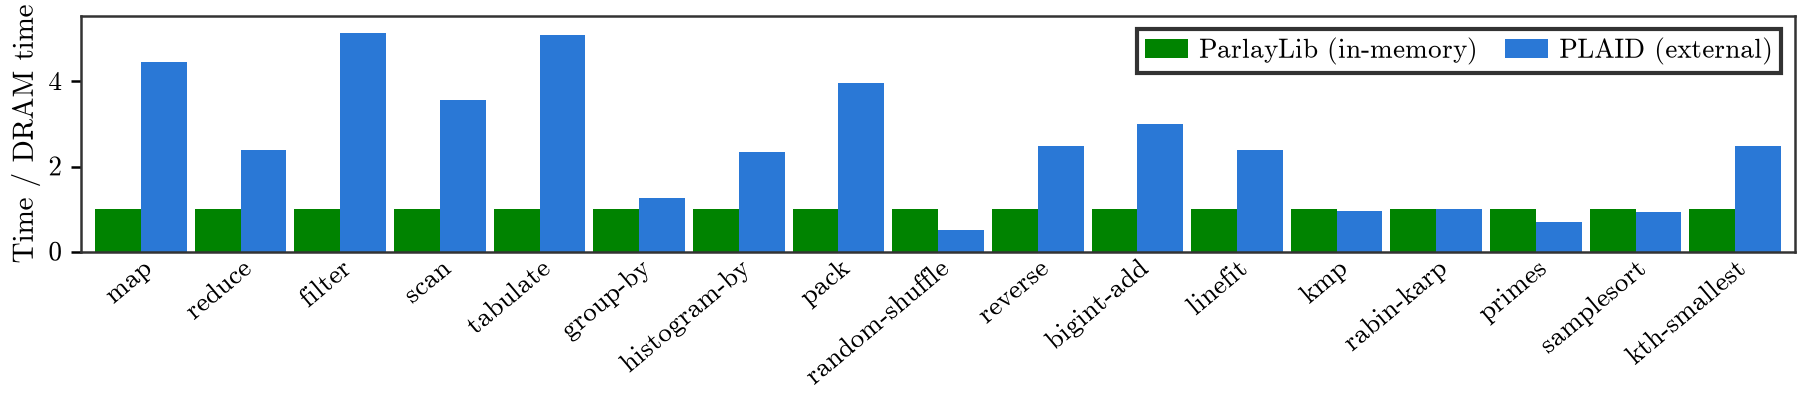
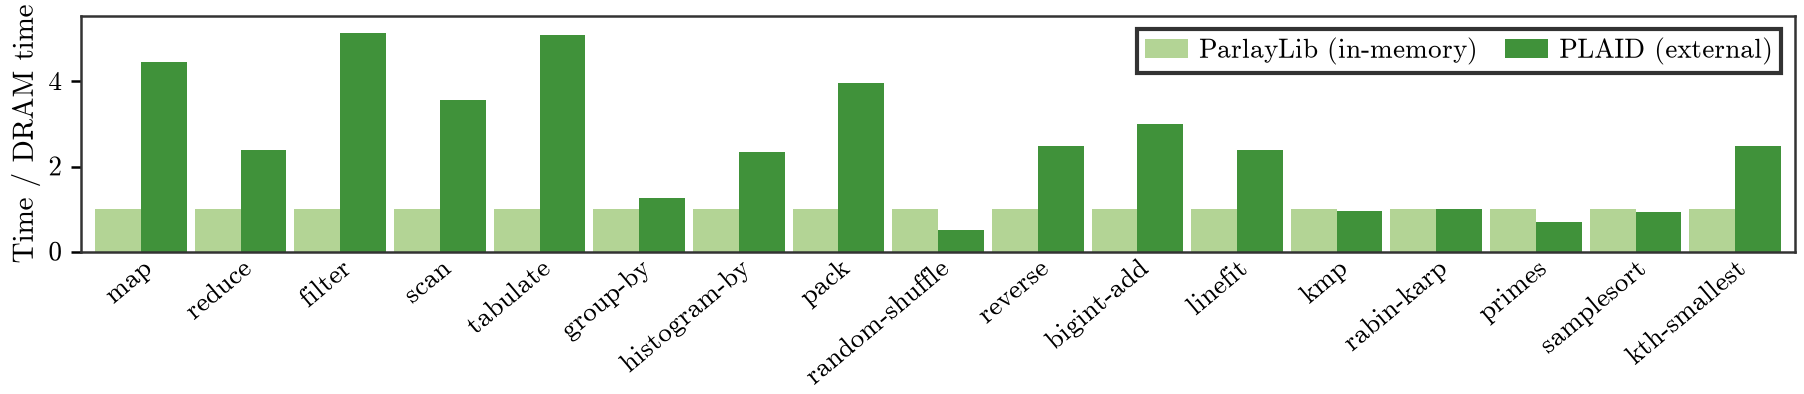
big fig

Changed region(s): [[0.031, 0.0609, 0.9933, 0.6396], [0.6208, 0.0914, 0.6829, 0.1523], [0.8071, 0.0914, 0.8692, 0.1523]]

diff --git a/benchresults/Sep24-FinalFigures/aggregate_summary_runs.py b/benchresults/Sep24-FinalFigures/aggregate_summary_runs.py
@@ -1,0 +1,144 @@
+#!/usr/bin/env python3
+"""Mean / median of several summary_figure.csv runs, per entry.
+
+Each input is a summary_figure.csv as benchmarks/summary_figure.py writes it
+(label,name,n,input_bytes,time_s,inmem_time_s,ratio).  Rows are keyed by
+`name`.  An entry measured at a different input_bytes in different runs is
+flagged (size_mismatch=1) and warned about -- its stats mix sizes.
+
+  usage:
+    python3 aggregate_summary_runs.py RUN1.csv RUN2.csv [...] [--out DIR]
+
+Writes to DIR (default: cwd):
+  summary_stats.csv            per-entry per-run ratios + mean/median/min/max/stdev
+  summary_figure_mean.csv      summary_figure.csv schema, mean times + mean ratio
+  summary_figure_median.csv    summary_figure.csv schema, median times + median ratio
+and prints a Markdown table to stdout.  The two summary_figure_*.csv files
+redraw with plot_paper_summary_bars.py by pointing ppf.SUMMARY_CSV at them.
+"""
+
+import argparse
+import csv
+import os
+import statistics
+import sys
+
+HERE = os.path.dirname(os.path.abspath(__file__))
+FIG_HEADER = ["label", "name", "n", "input_bytes", "time_s", "inmem_time_s",
+              "ratio"]
+
+
+def read_csv(path):
+    with open(path, newline="") as f:
+        return {r["name"]: r for r in csv.DictReader(f)}
+
+
+def entry_order(runs):
+    """plot_paper_figures' order if importable, else first-seen CSV order."""
+    try:
+        sys.path.insert(0, HERE)
+        import plot_paper_figures as ppf
+        order = list(ppf.SUMMARY_PRIMITIVES + ppf.SUMMARY_EXAMPLES)
+    except Exception:
+        order = []
+    for run in runs:
+        for name in run:
+            if name not in order:
+                order.append(name)
+    return order
+
+
+def stats(xs):
+    return {"mean": statistics.mean(xs), "median": statistics.median(xs),
+            "min": min(xs), "max": max(xs),
+            "stdev": statistics.stdev(xs) if len(xs) > 1 else 0.0}
+
+
+def main():
+    ap = argparse.ArgumentParser(description=__doc__,
+                                 formatter_class=argparse.RawDescriptionHelpFormatter)
+    ap.add_argument("csvs", nargs="+", help="summary_figure.csv files, one per run")
+    ap.add_argument("--out", default=".", help="output directory (default: cwd)")
+    args = ap.parse_args()
+
+    runs = [read_csv(p) for p in args.csvs]
+    k = len(runs)
+    warnings = []
+    stat_rows, mean_rows, median_rows = [], [], []
+
+    for name in entry_order(runs):
+        present = [(i, run[name]) for i, run in enumerate(runs) if name in run]
+        if not present:
+            continue
+        if len(present) < k:
+            missing = [args.csvs[i] for i in range(k) if name not in runs[i]]
+            warnings.append(f"{name}: missing from {', '.join(missing)}")
+        sizes = {r["input_bytes"] for _, r in present}
+        mismatch = len(sizes) > 1
+        if mismatch:
+            warnings.append(f"{name}: input_bytes differs across runs "
+                            f"({', '.join(sorted(sizes, key=int))}) -- stats mix sizes")
+
+        ratios = [float(r["ratio"]) for _, r in present]
+        times = [float(r["time_s"]) for _, r in present]
+        inmems = [float(r["inmem_time_s"]) for _, r in present]
+        rs, ts, ms = stats(ratios), stats(times), stats(inmems)
+        first = present[0][1]
+
+        row = {"label": first["label"], "name": name,
+               "input_bytes": first["input_bytes"], "n_runs": len(present),
+               "size_mismatch": int(mismatch)}
+        per_run = {i: float(r["ratio"]) for i, r in present}
+        for i in range(k):
+            row[f"ratio_run{i + 1}"] = f"{per_run[i]:.6g}" if i in per_run else ""
+        for prefix, s in (("ratio", rs), ("time_s", ts), ("inmem_time_s", ms)):
+            for stat, v in s.items():
+                row[f"{prefix}_{stat}"] = f"{v:.6g}"
+        row["ratio_of_means"] = f"{ts['mean'] / ms['mean']:.6g}"
+        stat_rows.append(row)
+
+        for out, stat in ((mean_rows, "mean"), (median_rows, "median")):
+            out.append({"label": first["label"], "name": name, "n": first["n"],
+                         "input_bytes": first["input_bytes"],
+                         "time_s": f"{ts[stat]:.9g}",
+                         "inmem_time_s": f"{ms[stat]:.9g}",
+                         "ratio": f"{rs[stat]:.9g}"})
+
+    os.makedirs(args.out, exist_ok=True)
+    stats_path = os.path.join(args.out, "summary_stats.csv")
+    with open(stats_path, "w", newline="") as f:
+        w = csv.DictWriter(f, fieldnames=list(stat_rows[0].keys()))
+        w.writeheader()
+        w.writerows(stat_rows)
+    for fname, rows in (("summary_figure_mean.csv", mean_rows),
+                        ("summary_figure_median.csv", median_rows)):
+        with open(os.path.join(args.out, fname), "w", newline="") as f:
+            w = csv.DictWriter(f, fieldnames=FIG_HEADER)
+            w.writeheader()
+            w.writerows(rows)
+
+    run_cols = " | ".join(f"run{i + 1}" for i in range(k))
+    print(f"| entry | size (GiB) | {run_cols} | mean | median | stdev | ratio of means |")
+    print("|" + "---|" * (k + 6))
+    for r in stat_rows:
+        gib = int(r["input_bytes"]) / (1 << 30)
+        per = " | ".join(r[f"ratio_run{i + 1}"] or "-" for i in range(k))
+        flag = " (!)" if r["size_mismatch"] else ""
+        print(f"| {r['label']}{flag} | {gib:g} | {per} | {float(r['ratio_mean']):.3f} | "
+              f"{float(r['ratio_median']):.3f} | {float(r['ratio_stdev']):.3f} | "
+              f"{float(r['ratio_of_means']):.3f} |")
+    all_mean = [float(r["ratio_mean"]) for r in stat_rows]
+    all_med = [float(r["ratio_median"]) for r in stat_rows]
+    print(f"\nacross entries: mean-of-means={statistics.mean(all_mean):.3f}  "
+          f"median-of-medians={statistics.median(all_med):.3f}  "
+          f"geomean-of-means={statistics.geometric_mean(all_mean):.3f}")
+    print(f"\nwrote {stats_path}, summary_figure_mean.csv, summary_figure_median.csv "
+          f"in {os.path.abspath(args.out)}")
+    if warnings:
+        print(f"\n!!! {len(warnings)} warning(s):", file=sys.stderr)
+        for w_ in warnings:
+            print(f"  - {w_}", file=sys.stderr)
+
+
+if __name__ == "__main__":
+    main()

diff --git a/benchresults/Sep24-FinalFigures/plot_paper_summary_bars.py b/benchresults/Sep24-FinalFigures/plot_paper_summary_bars.py
@@ -1,6 +1,6 @@
 #!/usr/bin/env python3
 """paper_summary_core redrawn in summary_figure.png's two-bar style: per entry, a
-green ParlayLib DRAM bar fixed at 1 beside a blue PLAID external bar at the
+light-green ParlayLib bar fixed at 1 beside a dark-green PLAID bar at the
 out-of-core / DRAM time ratio.  No gridlines, no red DRAM line.  Same data,
 order, labels and fonts as plot_paper_figures.py's paper_summary_core (fft /
 bellman-ford / convex-hull dropped), and the output is pinned to
@@ -27,6 +27,10 @@ from PIL import Image  # noqa: E402
 DPI = 300
 REFERENCE_PNG = os.path.join(HERE, "paper_summary_core.png")
 OUT_PNG = os.path.join(HERE, "paper_summary_bars.png")
+# Sampled from image.png (seaborn-style Greens pair): light = ParlayLib,
+# dark = PLAID.
+PARLAY_COLOR = "#b3d495"
+PLAID_COLOR = "#40923a"
 
 
 def reference_size():
@@ -55,10 +59,10 @@ def main():
         fig, ax = plt.subplots(figsize=(w_px / DPI, h_px / DPI), dpi=DPI)
         fig.subplots_adjust(left=0.045, right=0.995, top=0.96, bottom=0.36)
         ax.bar(x - width / 2, [1.0] * len(x), width,
-               color=plot_style.PALETTE["green"], label="ParlayLib (in-memory)",
+               color=PARLAY_COLOR, label="ParlayLib (in-memory)",
                zorder=2)
         ax.bar(x + width / 2, ratios, width,
-               color=plot_style.PALETTE["blue"], label="PLAID (external)",
+               color=PLAID_COLOR, label="PLAID (external)",
                zorder=2)
         ax.set_xticks(x)
         ax.set_xticklabels(names, rotation=40, ha="right",
